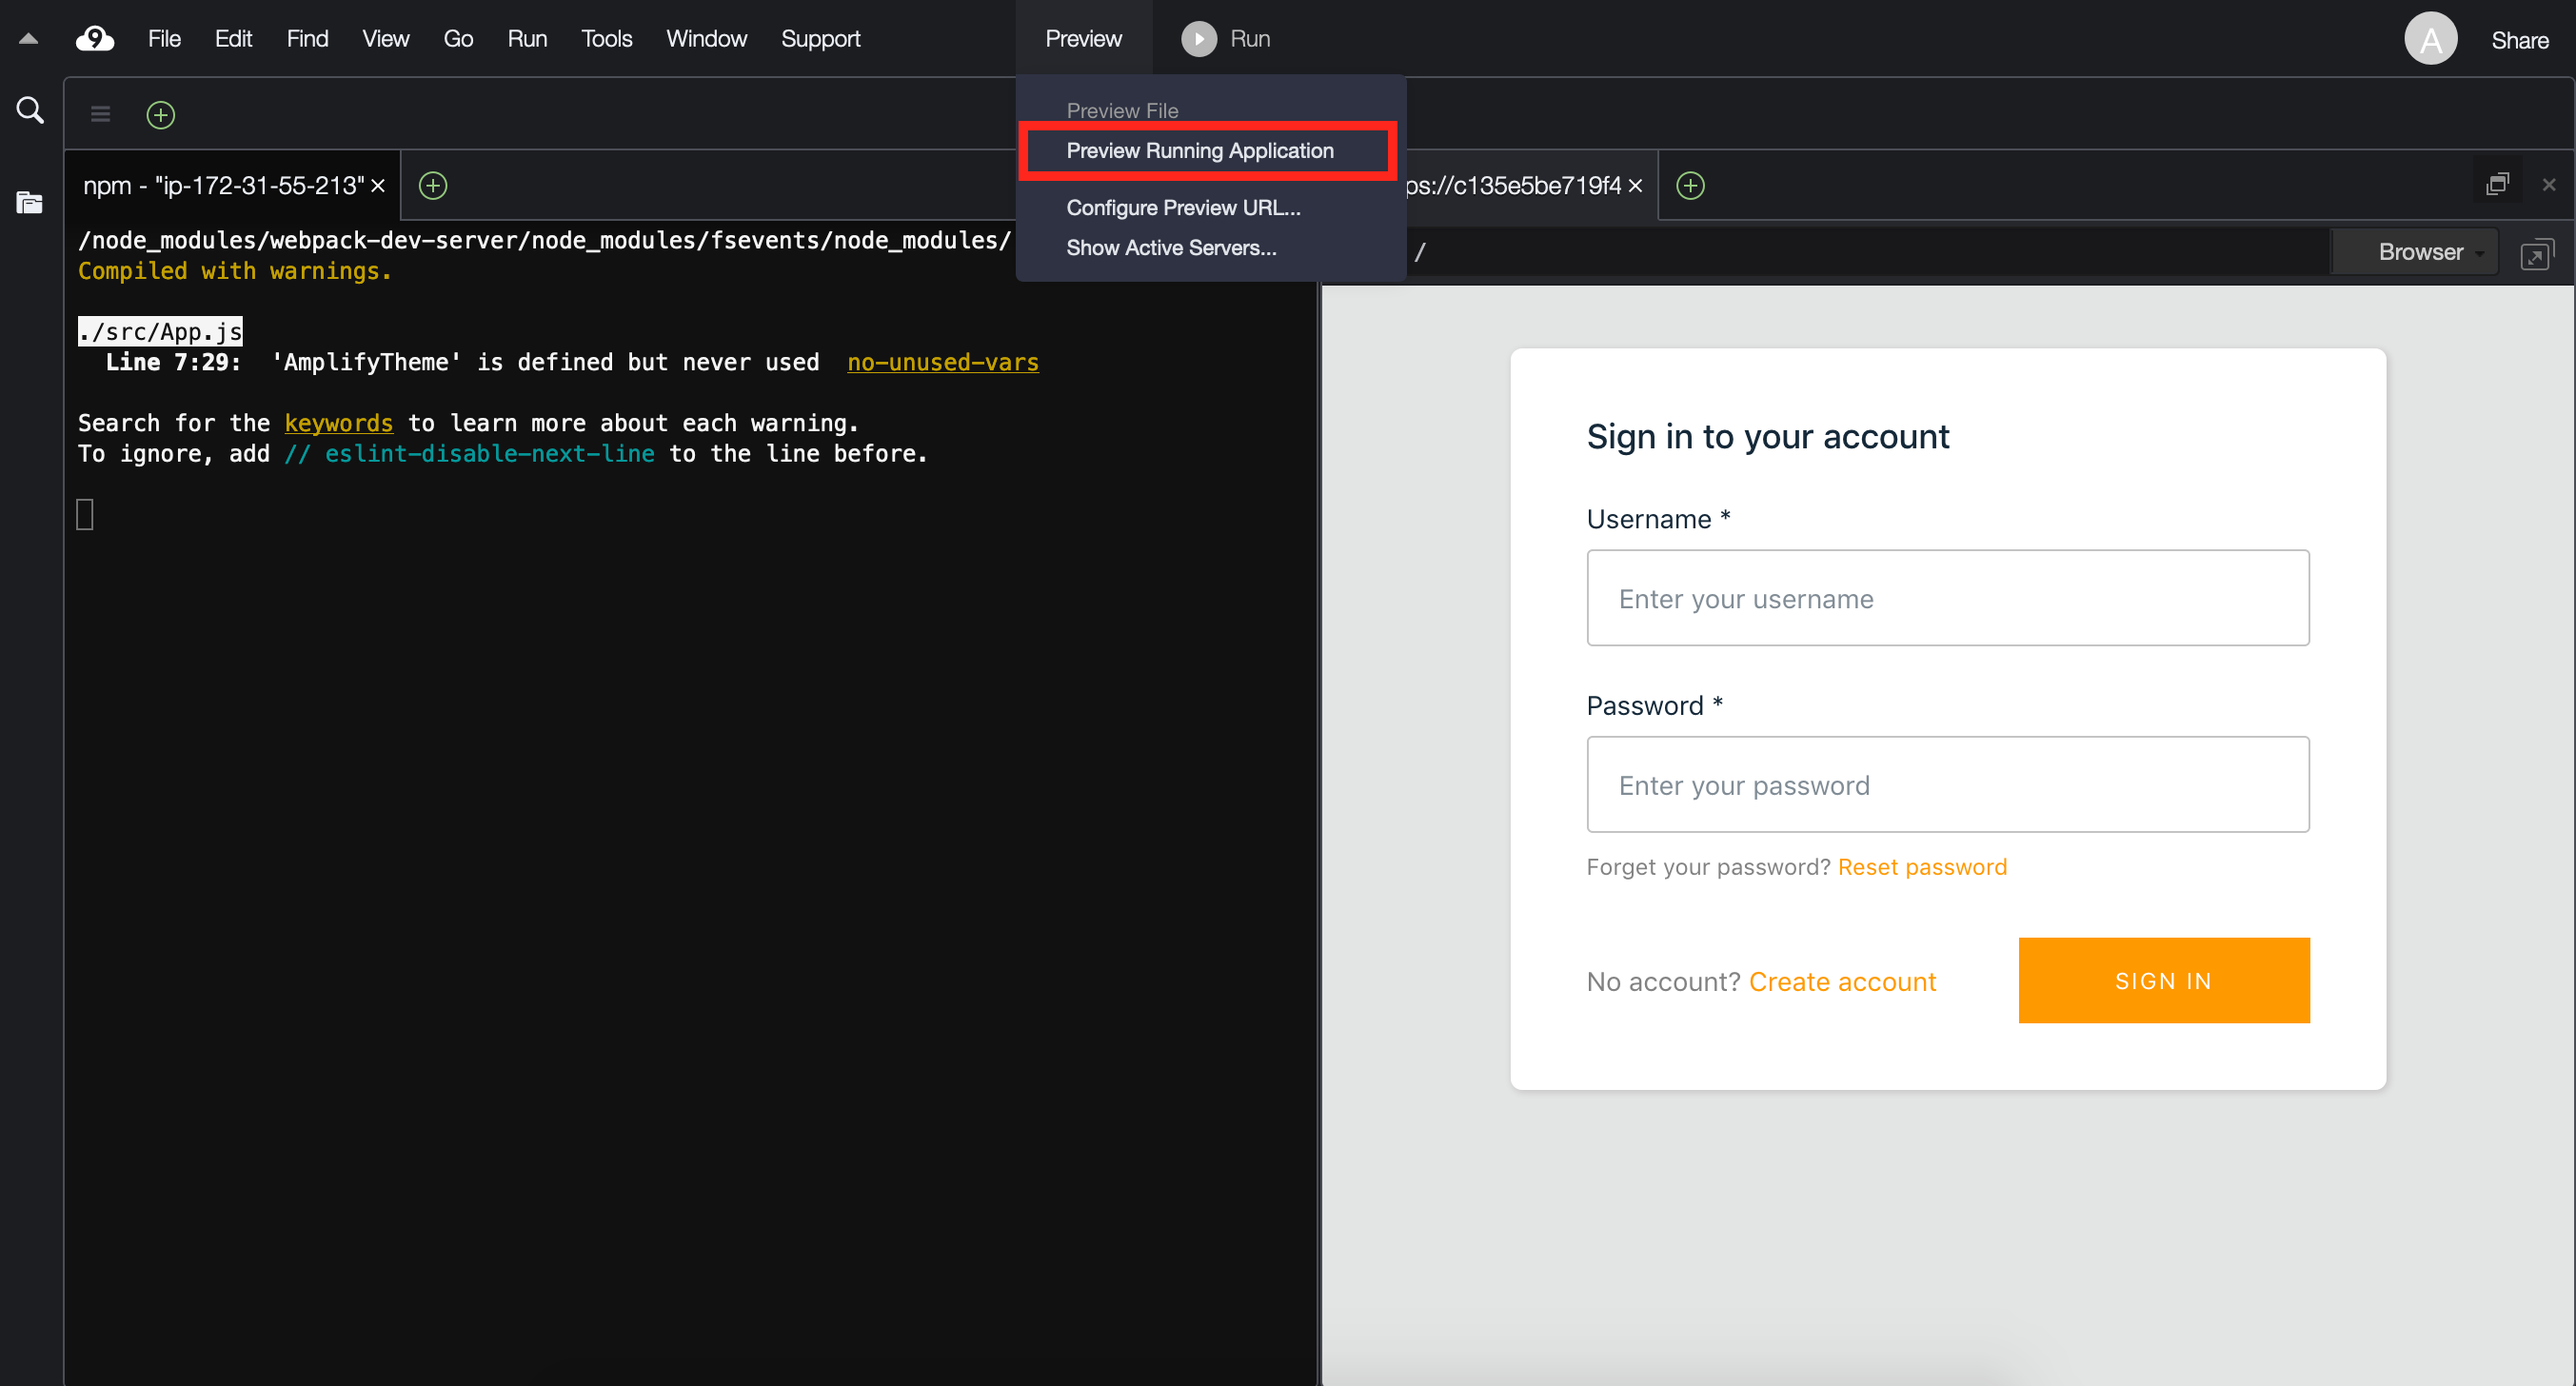
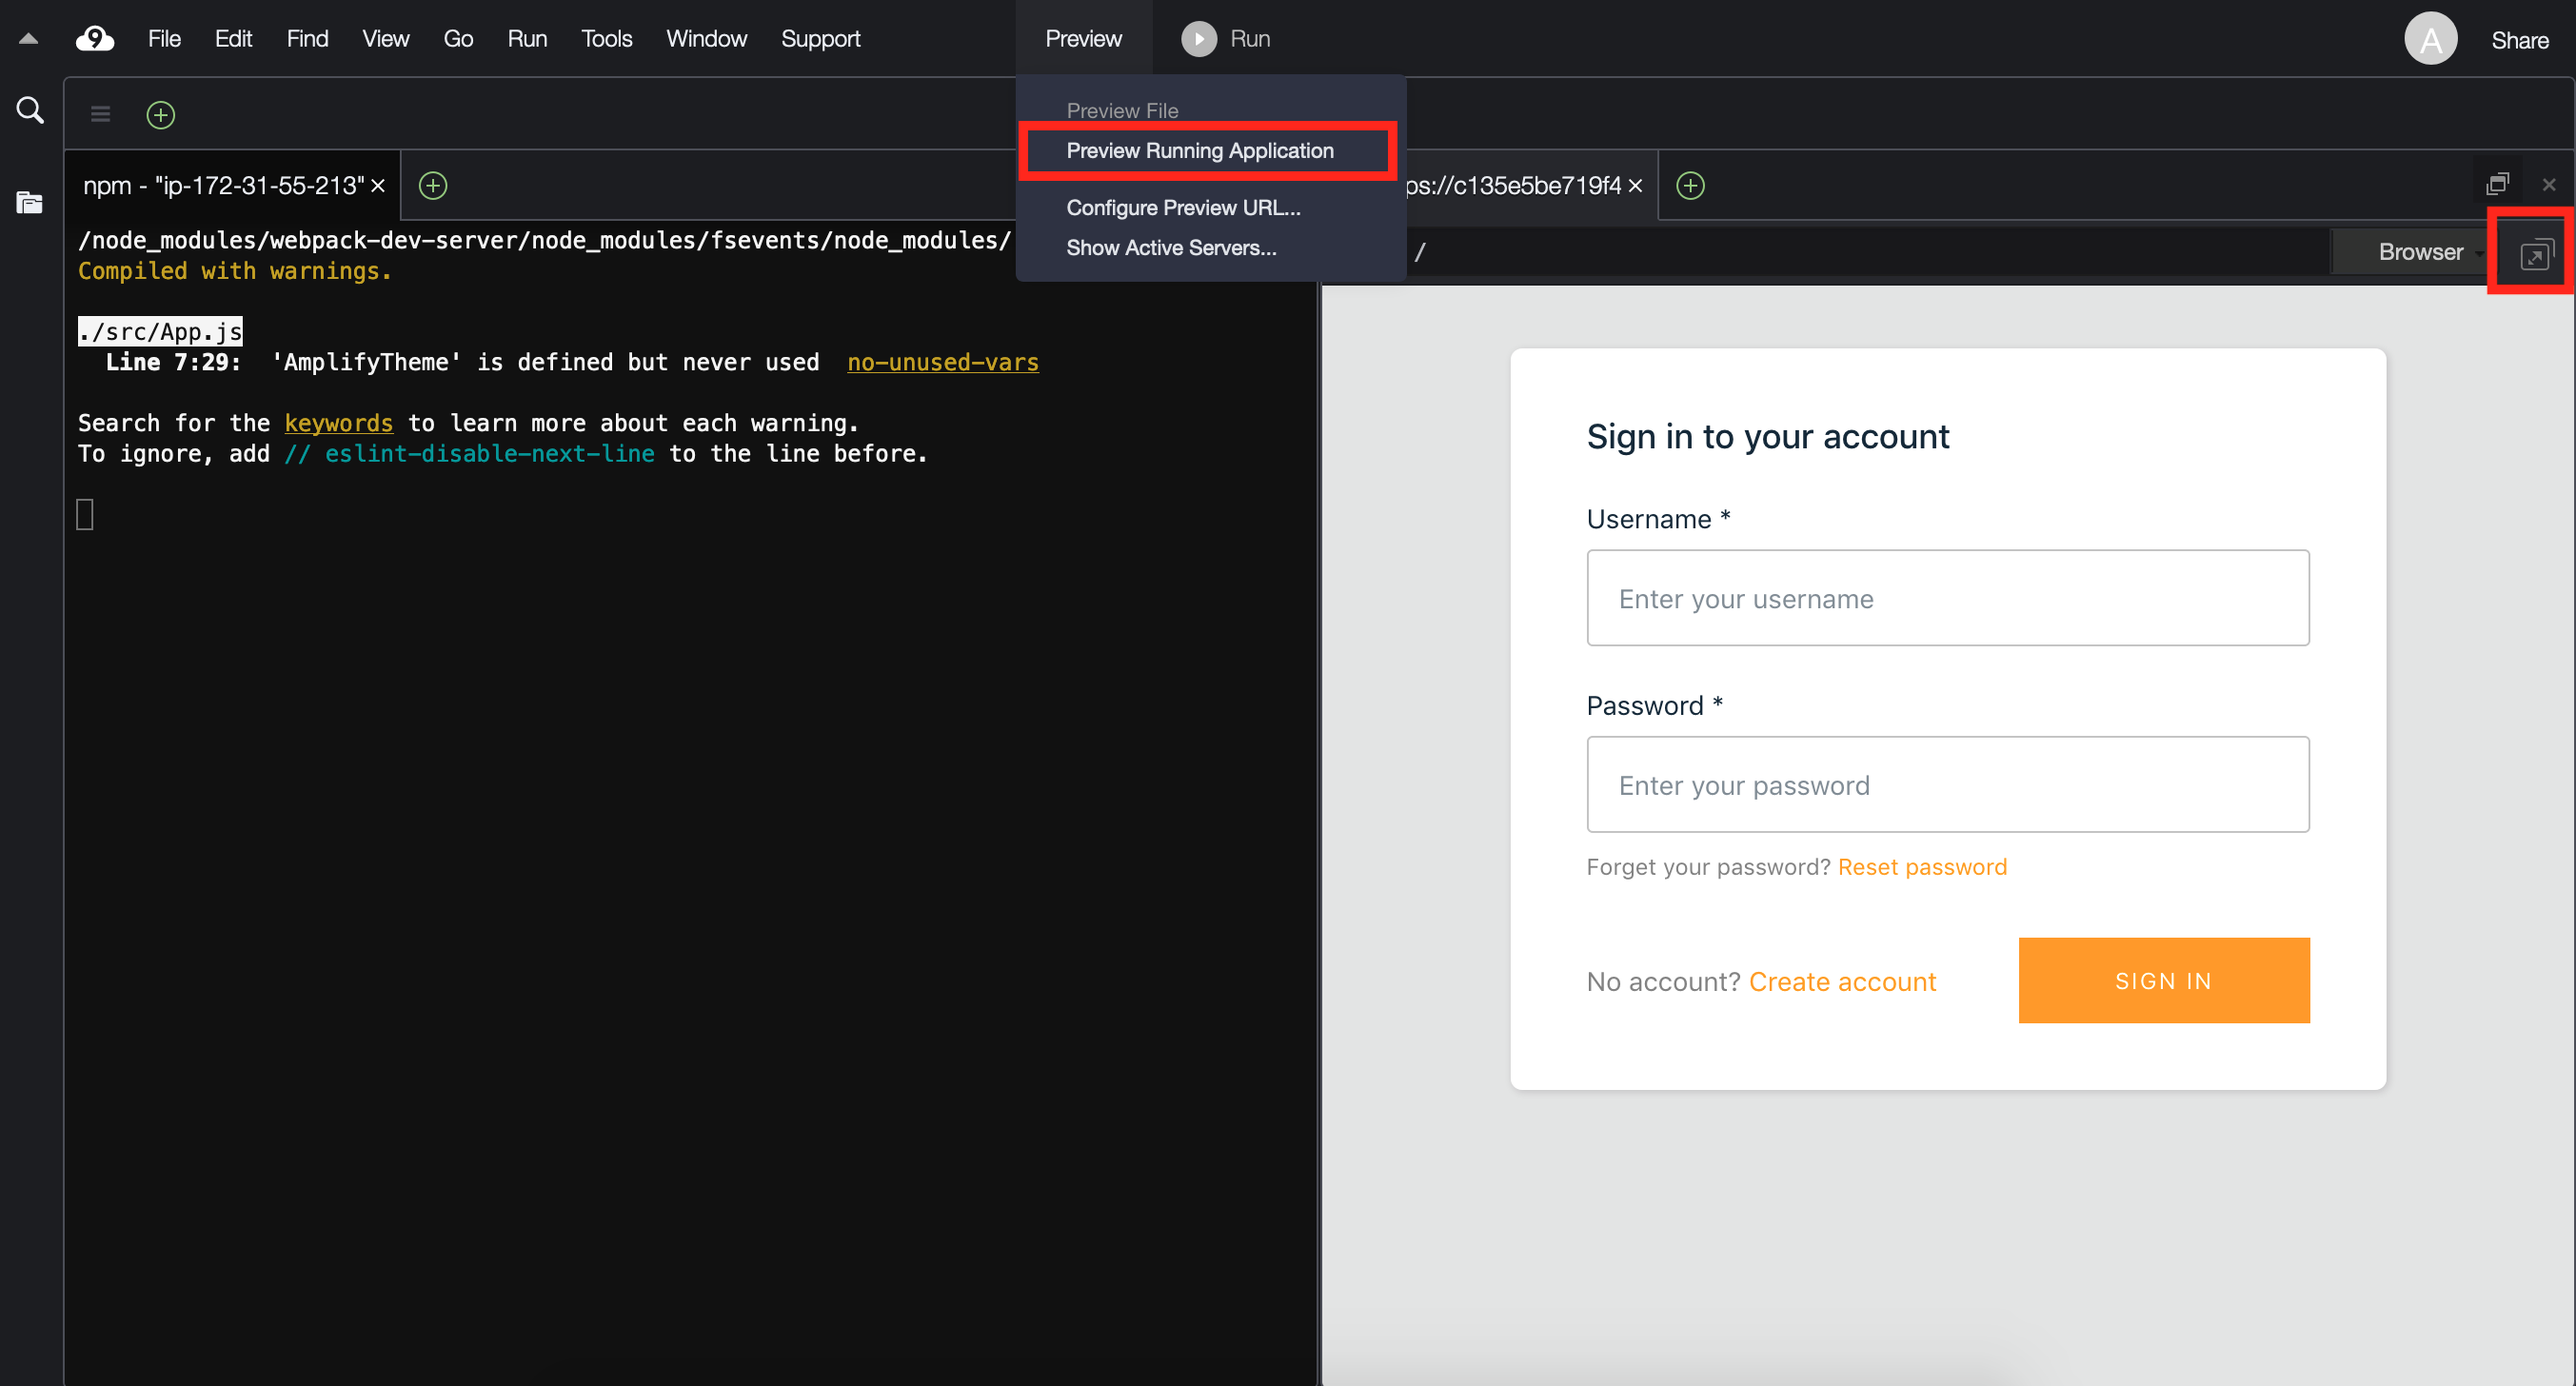
updating the Lab Instructions and images

diff --git a/README.md b/README.md
@@ -102,6 +102,7 @@ The AWS Amplify CLI will initialize a new project inside your React project & yo
 Amplify CLI provisions [Amazon Cognito](https://aws.amazon.com/cognito/) as backend to provide authN/authZ support for your application. Below command and selected options will create a cloudformation template to provision the Amazon Cognito resource locally under PROJECT_ROOT_DIR/amplify/auth/NAME_OF_COGNITO_RESOURCE folder
 
 `amplify add auth`
+
 `Do you want to use the default authentication and security configuration?` **Default configuration**
 
 `Warning: you will not be able to edit these selections. 
@@ -184,16 +185,17 @@ You should see something like this:
 3. Click the 'popout' icon to open it in a new browser tab, as shown below:
    ![](images/Cloud9Preview.png)
 
+4.  Application launched in new tab in browser
+   ![](images/Preview_in_Browser.png)
 
-4.  Create an user account
+5.  Create an user account
    ![](images/SignUp.png)
 
-
-5. Sign-in to the Application
+6. Sign-in to the Application
 
     ![](images/SignIn.png "Sign In")
 
-6. Start Recording and speak some text. Once finished stop the recording. 
+7. Start Recording and speak some text. Once finished stop the recording. 
    
    ![](images/Dashboard.png "App Dashboard")
 
